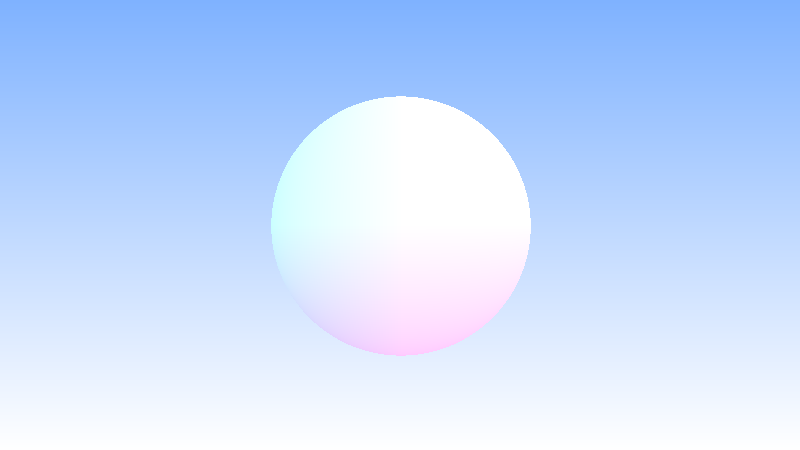
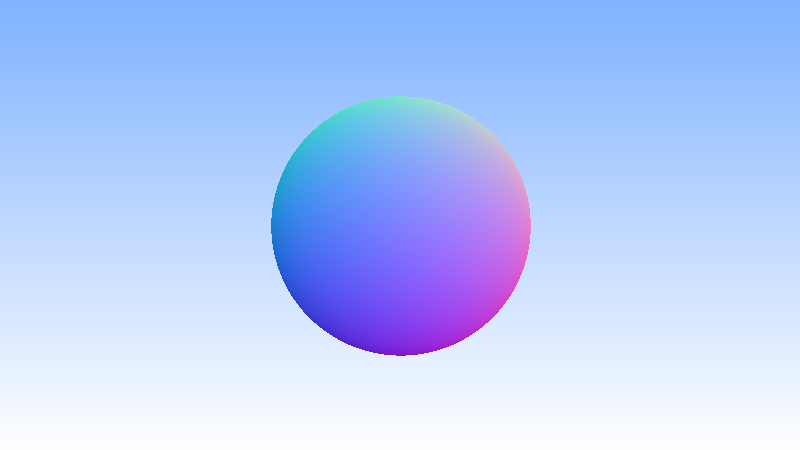
refact(norm): improving norm of vector

Changed region(s): [[0.3125, 0.2178, 0.6875, 0.8089]]

diff --git a/src/main.rs b/src/main.rs
@@ -4,7 +4,7 @@ extern crate image;
 
 use std::f32;
 use nalgebra::{ArrayStorage, Matrix, U1, U3, Vector3};
-use vector::{Ray, Sphere, hit, ray_at};
+use vector::{Ray, Sphere, hit, ray_at, unitvector};
 
 fn convert_bit_to_u8(value: f32) -> u8 {
   if value > 255.0 {
@@ -30,8 +30,7 @@ fn ray_color(ray: Ray, sphere: Sphere) -> Matrix<f32, U3, U1, ArrayStorage<f32, 
     let p = ray_at(ray, t);
     let normal = p - sphere.center;
     let normal = normal as Matrix<f32, U3, U1, ArrayStorage<f32, U3, U1>>;
-    let normal = normal.as_ref();
-    let normal = Vector3::new(normal[0], normal[1], normal[2]);
+    let normal = unitvector(normal);
     
     let ncolor = 0.5 * (normal + Vector3::new(1.0, 1.0, 1.0));
     // println!("{}", ncolor);

diff --git a/src/vector.rs b/src/vector.rs
@@ -30,6 +30,10 @@ impl Sphere {
   }
 }
 
+pub fn unitvector(v : Matrix<f32, U3, U1, ArrayStorage<f32, U3, U1>>) ->  Matrix<f32, U3, U1, ArrayStorage<f32, U3, U1>>{
+  v / v.norm()
+}
+
 pub fn ray_at(ray: Ray, t: f32) -> Matrix<f32, U3, U1, ArrayStorage<f32, U3, U1>> {
   ray.origin + t * ray.direction
 }
